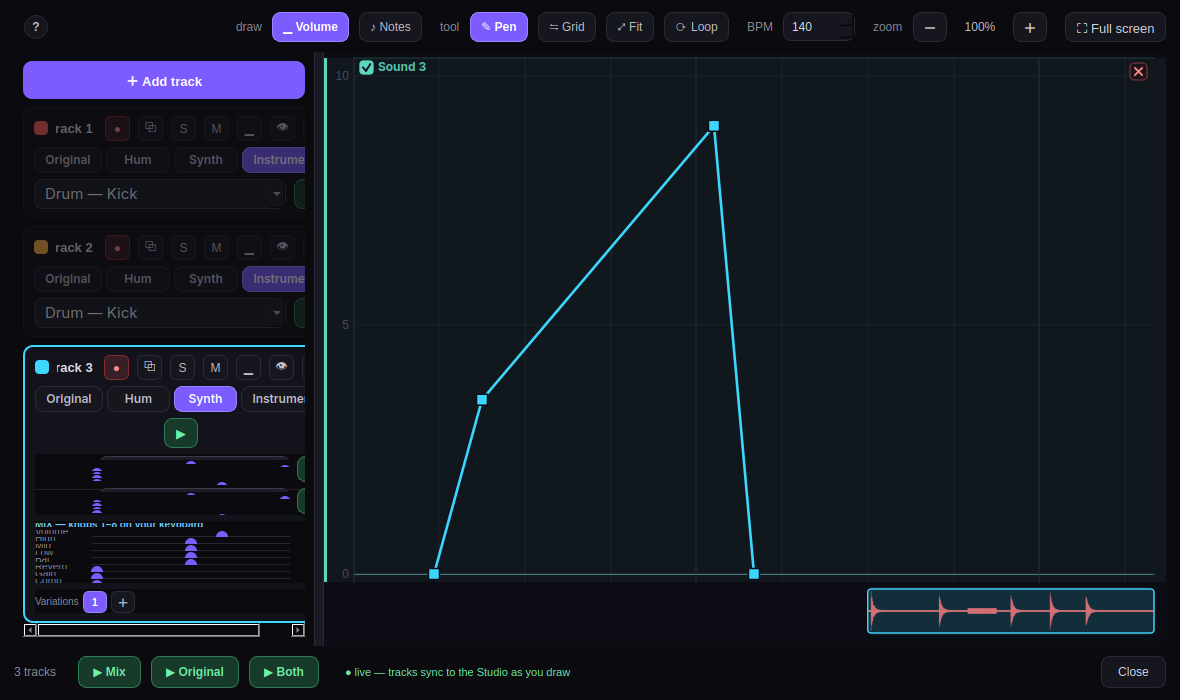
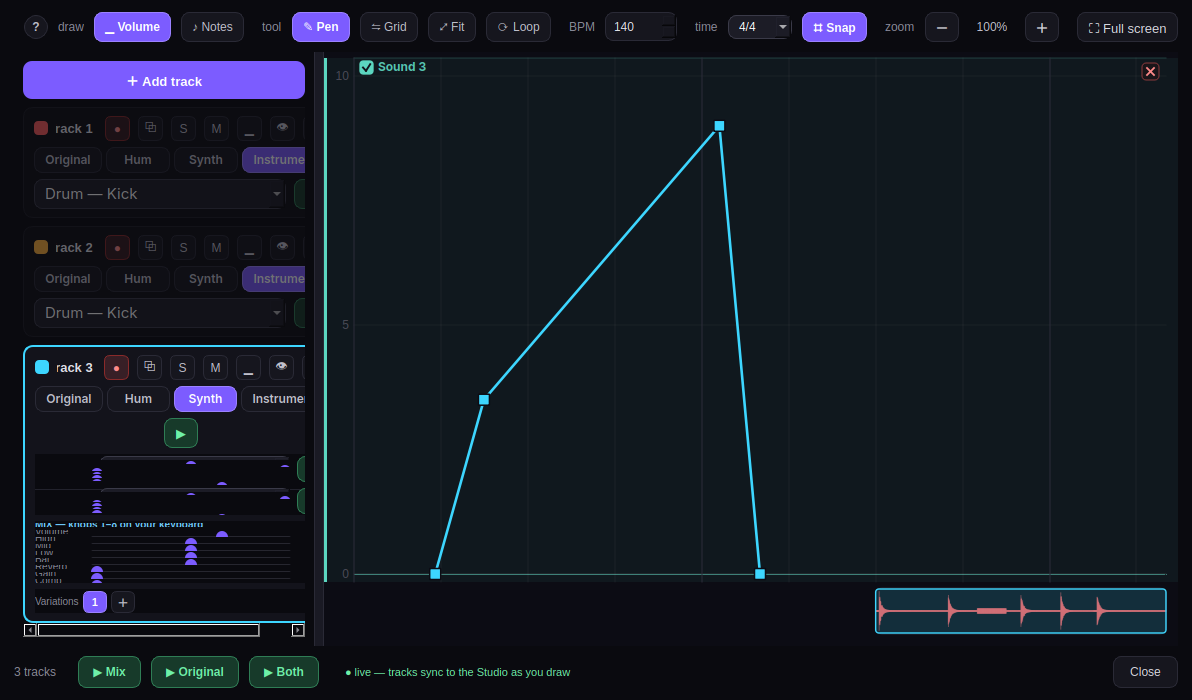
Time signature + beat snap: see the meter, size samples to the bar (v0.40.0)
- Time-signature selector on the board toolbar (2/4..7/4, default 4/4) drives
  canvas.beats_per_bar, so the BAR lines in Volume and Notes reflect the meter and you
  can size loops to whole bars. Round-trips in snapshot.
- Snap for VOLUME beats (⌗ Snap, on by default, toggleable): placing/dragging a beat
  snaps to the drawn grid (_gsnap, 1/16 of a beat) so beats line up and samples fit the
  bar. Notes mode already snapped.

board_check SNAP/TIMESIG check; 33 checks green.

Claude-Session: https://claude.ai/code/session_01Nx2xvCEFwoY9ya5yMQUNJ7

diff --git a/desktop/beatstudio/separationboard.py b/desktop/beatstudio/separationboard.py
@@ -143,6 +143,8 @@ class CurveCanvas(QWidget):
         self.playhead = None                      # take-fraction 0..1, or None
         self.tool = "pen"                          # pen | grid (tempo) | fit (audio) | loop (sample region)
         self._loop_drag = None                     # take-fraction where a Loop drag started
+        self.beats_per_bar = 4                     # time signature numerator (bar = N beats)
+        self.snap = True                           # snap placed/moved VOLUME beats to the grid
         self._grid_grab = None                     # (grabbed beat number) while STRETCHING the grid
         self.grid_off = 0.0                        # grid phase offset in SECONDS (moves the grid sideways)
         self._grid_pan = None                      # (start-x, start-offset) while MOVING the grid
@@ -487,6 +489,18 @@ class CurveCanvas(QWidget):
         sec = round((t * dur - self.grid_off) / sub) * sub + self.grid_off
         return min(1.0, max(0.0, sec / dur))
 
+    def _gsnap(self, t, div=4):
+        """Snap a take-fraction to the drawn beat grid (1/div of a beat = 16th notes by default), so
+        VOLUME beats land on the grid and loops fit the bar. Bypassed when `snap` is off."""
+        if not self.snap:
+            return t
+        dur = len(self.buf) / self.sr
+        if dur <= 0:
+            return t
+        sub = (60.0 / self.bpm) / max(1, div)
+        sec = round((t * dur - self.grid_off) / sub) * sub + self.grid_off
+        return min(1.0, max(0.0, sec / dur))
+
     def _lane_h(self):
         y0, y1 = self._notes_plot()
         return (y1 - y0) / max(1, (self.note_hi - self.note_lo))
@@ -582,7 +596,7 @@ class CurveCanvas(QWidget):
 
         # bar + beat lines span every row (shifted by the grid offset)
         if dur:
-            step = beat_len * 4
+            step = beat_len * self.beats_per_bar         # a bar = time-signature beats
             bar = int((self.view0 * dur - self.grid_off) / step) - 1
             while True:
                 tf = (bar * step + self.grid_off) / dur
@@ -760,7 +774,7 @@ class CurveCanvas(QWidget):
                     break
                 if self.view0 <= tf and tf >= 0:
                     x = self._to_px_t(tf)
-                    a = 55 if (k % 16 == 0) else (30 if (k % 4 == 0) else 12)
+                    a = 55 if (k % (self.beats_per_bar * 4) == 0) else (30 if (k % 4 == 0) else 12)  # bar/beat/16th
                     p.setPen(QPen(QColor(255, 255, 255, a), 1)); p.drawLine(int(x), int(y0), int(x), int(y1))
                 k += 1
         # placed note points (active track bright, others faint) — a short bar on the lane + a dot.
@@ -1098,6 +1112,7 @@ class CurveCanvas(QWidget):
         if not (0 <= self.active < len(self.tracks)):
             return
         t, v = self._from_px(pos.x(), pos.y(), self._active_band()); pts = self.tracks[self.active]["points"]
+        t = self._gsnap(t)                               # snap the beat to the grid so samples fit the bar
         i = 0
         while i < len(pts) and pts[i]["t"] < t:
             i += 1
@@ -1236,7 +1251,7 @@ class CurveCanvas(QWidget):
         if mode == "anchor":
             lo = pts[pi - 1]["t"] + 1e-4 if pi > 0 else 0.0
             hi = pts[pi + 1]["t"] - 1e-4 if pi < len(pts) - 1 else 1.0
-            pt["t"] = min(max(t, lo), hi); pt["v"] = v   # free to move in time AND volume here
+            pt["t"] = min(max(self._gsnap(t), lo), hi); pt["v"] = v   # snap to grid; free in volume
             pt.pop("beat", None)                         # moving on the board un-locks the grid beat
         else:                                          # symmetric handle (out / in)
             hx, hy = t - pt["t"], v - pt["v"]
@@ -1792,6 +1807,21 @@ class SeparationBoard(QWidget):
             "QSpinBox{background:#16161e;border:1px solid #2a2a36;border-radius:8px;color:#e2e2ea;padding:4px 6px;}")
         self.bpm_box.valueChanged.connect(self._on_bpm)
         top.addWidget(self.bpm_box)
+        # time signature (drives the bar lines so you can see 4/4, 3/4, … and size loops to the bar)
+        top.addSpacing(8); top.addWidget(self._dim("time"))
+        self.sig_box = QComboBox(); self.sig_box.setFixedWidth(64)
+        self.sig_box.setStyleSheet(_COMBO_CSS)
+        for n in (2, 3, 4, 5, 6, 7):
+            self.sig_box.addItem(f"{n}/4", n)
+        self.sig_box.setCurrentIndex(2)               # 4/4
+        self.sig_box.currentIndexChanged.connect(self._on_sig)
+        top.addWidget(self.sig_box)
+        # snap toggle: place/move VOLUME beats on the grid so they line up with the bar
+        self.snap_btn = QPushButton("⌗ Snap"); self.snap_btn.setCursor(Qt.PointingHandCursor); self.snap_btn.setFixedHeight(30)
+        self.snap_btn.setToolTip("Snap beats to the grid (1/16) so samples fit the bar")
+        self.snap_btn.clicked.connect(self._toggle_snap)
+        self.snap_btn.setStyleSheet(_TOOL_ON)         # snap on by default
+        top.addWidget(self.snap_btn)
         # zoom
         top.addSpacing(8); top.addWidget(self._dim("zoom"))
         zout = self._chip("－"); zout.clicked.connect(lambda: self._zoom(1 / 0.7))
@@ -2007,7 +2037,7 @@ class SeparationBoard(QWidget):
                  for tk in self.takes]                                          # buf by reference (cheap)
         return {"tracks": tracks, "takes": takes, "active_take": self._active_take,
                 "bpm": self.bpm, "n": self._n, "color_seq": self._color_seq,
-                "grid_off": self.canvas.grid_off}
+                "grid_off": self.canvas.grid_off, "beats_per_bar": self.canvas.beats_per_bar}
 
     def restore(self, blob):
         import copy
@@ -2024,6 +2054,10 @@ class SeparationBoard(QWidget):
         self.bpm = int(blob.get("bpm", self.bpm)); self.canvas.bpm = self.bpm
         self._n = blob.get("n", self._n); self._color_seq = blob.get("color_seq", self._color_seq)
         self.canvas.grid_off = float(blob.get("grid_off", 0.0))
+        self.canvas.beats_per_bar = int(blob.get("beats_per_bar", 4))
+        if hasattr(self, "sig_box"):
+            self.sig_box.blockSignals(True)
+            self.sig_box.setCurrentIndex(max(0, self.canvas.beats_per_bar - 2)); self.sig_box.blockSignals(False)
         self.tracks.clear()                                                    # mutate in place (canvas shares it)
         for t in blob["tracks"]:
             tr = copy.deepcopy({k: v for k, v in t.items() if k != "color"})
@@ -2561,6 +2595,14 @@ class SeparationBoard(QWidget):
     def _on_bpm(self, v):
         self.bpm = v; self.canvas.bpm = v; self.canvas.update()
         self.bpm_changed.emit(int(v))
+
+    def _on_sig(self):
+        self.canvas.beats_per_bar = int(self.sig_box.currentData() or 4); self.canvas.update()
+
+    def _toggle_snap(self):
+        self.canvas.snap = not self.canvas.snap
+        self.snap_btn.setStyleSheet(_TOOL_ON if self.canvas.snap else _TOOL_OFF)
+        self.snap_btn.setText("⌗ Snap" if self.canvas.snap else "⌗ Snap off")
 
     def set_bpm_external(self, v):
         """Studio changed the tempo — update the box without re-emitting."""

diff --git a/desktop/board_check.py b/desktop/board_check.py
@@ -440,6 +440,29 @@ assert _q._voices[9]["next"] is not None, "quantized swap did not queue for the 
 bd._delete_track(vtr)
 print("VARIATIONS ok: add/switch variations (linked, independent); pad row = variation; quantized swap")
 
+# SNAP + TIME SIGNATURE: volume beats snap to the grid; the time-sig sets beats-per-bar.
+bd._set_tool("pen"); bd._set_mode("volume")
+bd.add_track(); str_ = bd.tracks[-1]; scol = bd.tracks.index(str_)
+bd.canvas.set_active(scol)
+bd.canvas.snap = True
+cvs = bd.canvas
+qx = cvs._to_px(0.137, 0.6, cvs._active_band())
+cvs.mousePressEvent(E(qx.x(), qx.y())); cvs.mouseReleaseEvent(E(qx.x(), qx.y())); app.processEvents()
+_snapped = str_["points"][-1]["t"]
+assert abs(_snapped - cvs._gsnap(0.137)) < 1e-6 and abs(_snapped - _snapped) == 0, "beat did not snap to the grid"
+# snap off → the next beat lands where clicked (finer)
+cvs.snap = False
+qx2 = cvs._to_px(0.331, 0.6, cvs._active_band())
+cvs.mousePressEvent(E(qx2.x(), qx2.y())); cvs.mouseReleaseEvent(E(qx2.x(), qx2.y())); app.processEvents()
+assert abs(str_["points"][-1]["t"] - 0.331) < 0.02, "snap-off should place near the click"
+cvs.snap = True
+# time signature drives beats-per-bar (drawn bar lines) + round-trips in snapshot
+bd.sig_box.setCurrentIndex(1); assert cvs.beats_per_bar == 3, "3/4 did not set beats-per-bar"
+_snap = bd.snapshot(); assert _snap.get("beats_per_bar") == 3, "time sig not in snapshot"
+bd.sig_box.setCurrentIndex(2)  # back to 4/4
+bd._delete_track(str_)
+print("SNAP/TIMESIG ok: volume beats snap to the grid (toggleable); time-sig sets the bar")
+
 # NO INFINITE LOOP: a nested sync call is guarded
 calls = {"n": 0}; _orig = w._on_board_track_changed
 def _count(x):

diff --git a/desktop/beatstudio/__init__.py b/desktop/beatstudio/__init__.py
@@ -1,3 +1,3 @@
 """Beat Studio — native Linux desktop DAW for beatbox → MIDI."""
 # Bump this on every change so the title bar shows which build is live.
-__version__ = "0.39.2"
+__version__ = "0.40.0"

diff --git a/desktop/PROGRESS.md b/desktop/PROGRESS.md
@@ -4,6 +4,19 @@
 continuing in a new chat.** Current version: **v0.36.0** (shown in the window title bar as
 `Beat Studio · v0.36.0`).
 
+## v0.40.0 — time signature + beat snap (so you can size samples to the bar)
+User: can't see the meter, so can't tell how long a sample should be; and volume beats didn't snap.
+- **Time-signature selector** on the board toolbar (`2/4 … 7/4`, default 4/4) → `canvas.beats_per_bar` drives
+  the BAR lines in both Volume and Notes, so you can see the meter and size loops to whole bars. Round-trips
+  in snapshot.
+- **Snap for VOLUME beats** (`⌗ Snap`, on by default, toggleable). Placing/dragging a beat snaps to the drawn
+  grid (`_gsnap`, 1/16 of a beat) so beats line up and samples fit the bar. (Notes mode already snapped via
+  `_snap_t`.) Verified: 0.137→0.125; snap-off places freely.
+- board_check **SNAP/TIMESIG** check; 33 checks green.
+- NOTE: this is board-side (where you draw + size loops). The Studio ruler still draws 4/4 bars — unify if
+  needed. A natural follow-up (raised earlier): quantize loop REGIONS to whole bars so different loops stay
+  phase-locked.
+
 ## v0.39.2 — MIX knobs actually DO something on a live loop (instant volume/balance)
 The numbers updated (v0.39.1) but a live pad loop still didn't audibly change: Volume/Balance felt dead and
 Balance couldn't work at all (mono).